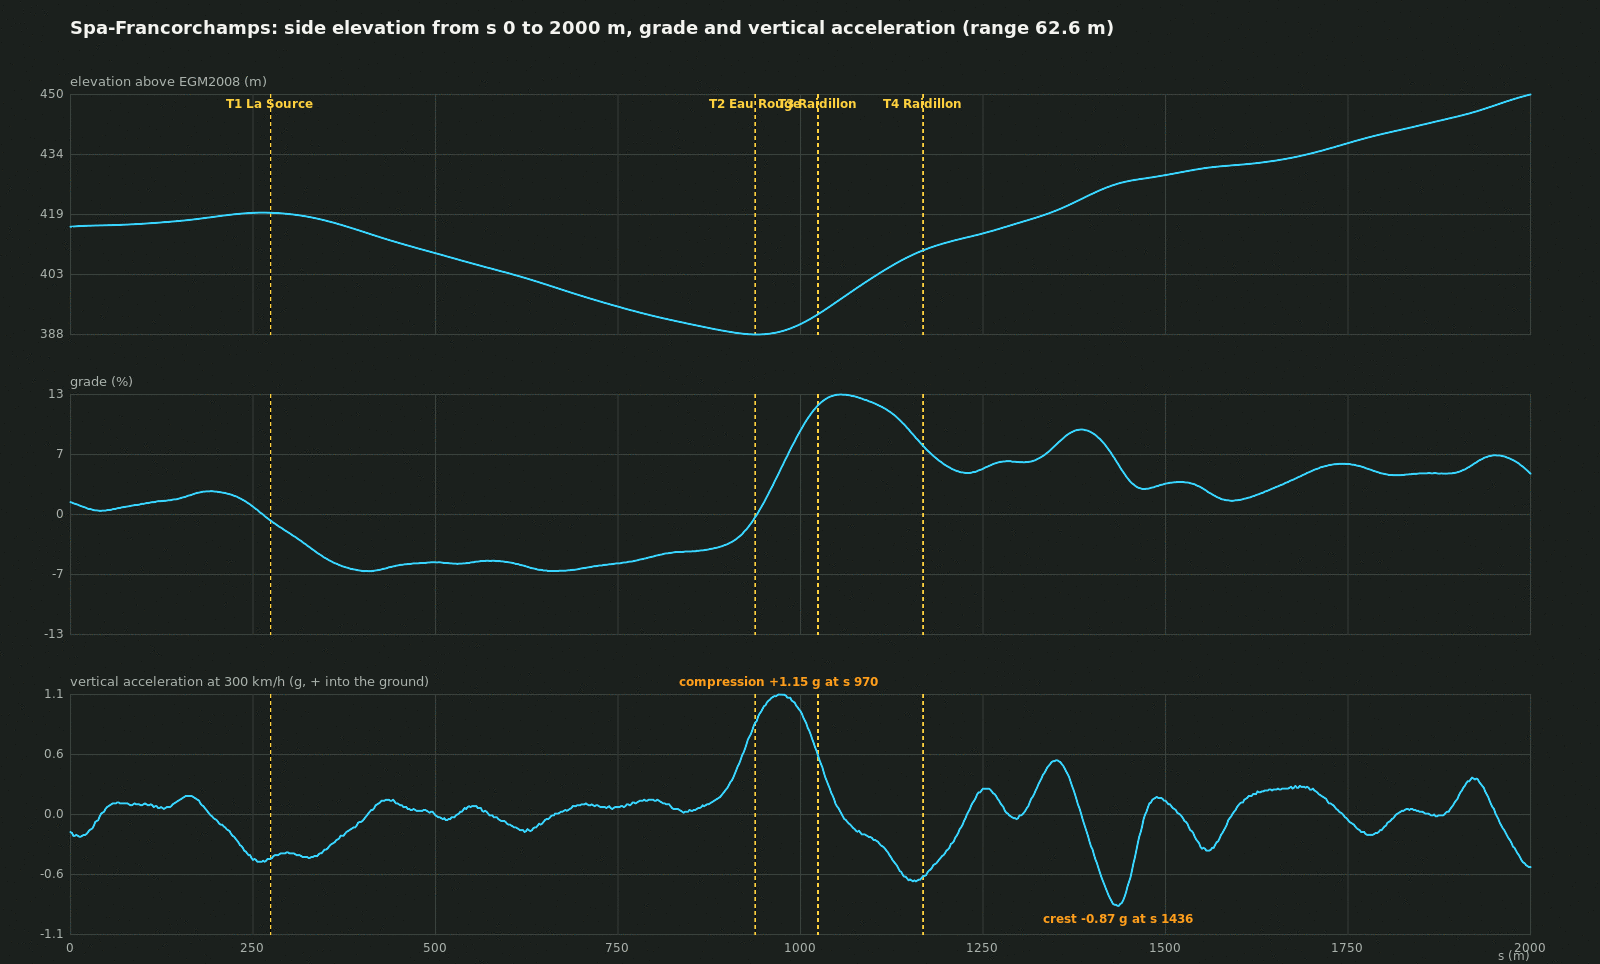
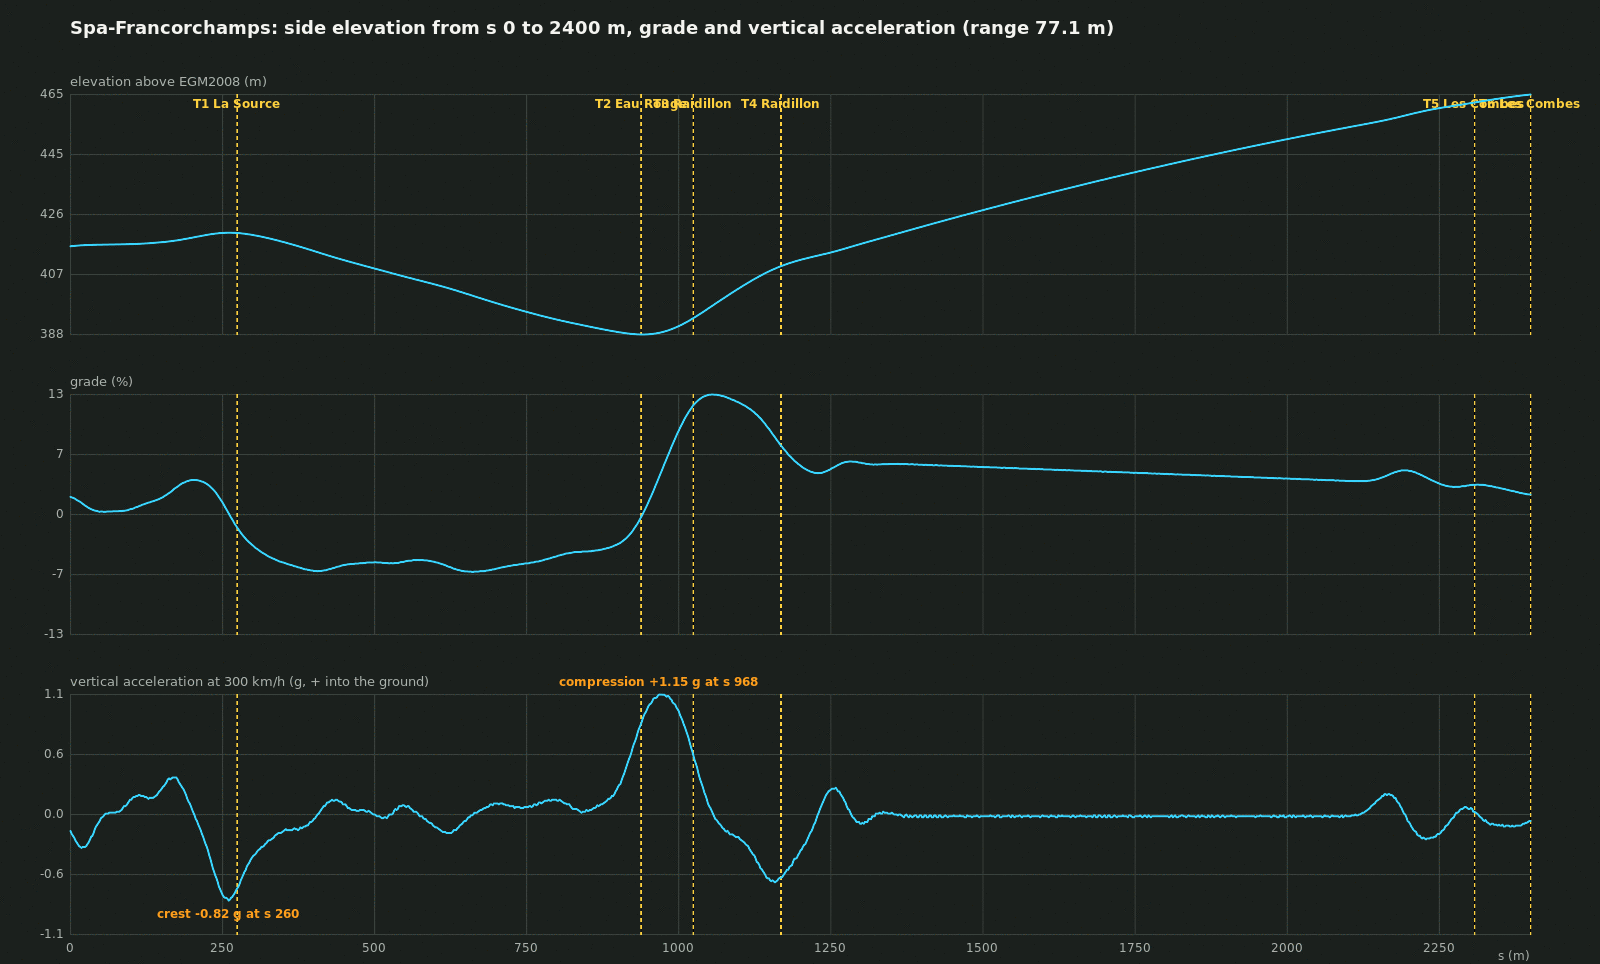
Spa: replace the surface-model bump on Kemmel, and bound crests on straights
The bump at s 1400 to 1450 m (and a smaller wiggle near 2000 m) put a fake crest
on Kemmel that unloaded the car. A documented elevation correction replaces the
profile from s 1325 to 2150 m with a cubic matching height and grade at both
ends; the opening filter goes, so Raidillon is not softened further.

Regressions: along Kemmel no crest or dip above 0.3 g at 300 km/h, and on both
circuits no straight above 0.8 g outside the named real features.

diff --git a/packages/track/validation/spa.test.ts b/packages/track/validation/spa.test.ts
@@ -58,6 +58,16 @@ const { data, track } = describeCircuit({
   timingLine: { s: 6875.4, uncertainty: 15 },
   poleToBraking: 165,
   pit: { side: 'right', osmLength: 720.5 },
+  // The real compression at the bottom of Eau Rouge and the crest over Raidillon. The other
+  // straights carry undulations of up to about 0.8 g from the surface model (the descent to
+  // Pouhon, the run to the Bus Stop), not yet checked against the circuit.
+  verticalAllowed: (c) => [
+    [c.apex(2) - 200, c.apex(4) + 150, 'Eau Rouge and Raidillon'],
+    // A steady 15 m climb over 150 m in the raw surface model (not a narrow spike), taken as
+    // terrain; not yet checked against a published figure.
+    [c.end(17) - 100, c.start(18) - 300, 'the climb from Blanchimont to the Bus Stop'],
+  ],
+  maxStraightG: 0.8,
   // The start straight beside the run down from La Source; the two legs of Bruxelles.
   closeRuns: [
     [60, 520],
@@ -125,7 +135,34 @@ describe('Spa: elevation', () => {
     let crest = 0;
     for (let s = corner(4); s <= corner(4) + 400; s += step) crest = Math.min(crest, vc(s));
     expect(sag).toBeGreaterThan(1 / 1000);
-    expect(crest).toBeLessThan(-1 / 1000);
+    // About -1/1090 per metre over the top of Raidillon (-0.65 g at 300 km/h).
+    expect(crest).toBeLessThan(-1 / 2000);
+  });
+});
+
+describe('Spa: Kemmel', () => {
+  it('climbs smoothly: no crest or dip a car at 300 km/h would feel as more than 0.3 g', () => {
+    // Regression: a surface-model bump at s 1400 to 1450 m gave -0.87 g (review of PR #18).
+    const v = 300 / 3.6;
+    const w = Math.round(10 / step);
+    let worst = 0;
+    let where = 0;
+    for (let s = corner(4) + 150; s <= corner(5) - 150; s += step) {
+      const i = track.lap.sampleIndex(s);
+      const kv =
+        (track.lap.grade[(i + w) % n]! - track.lap.grade[(i + n - w) % n]!) / (2 * w * step);
+      const acc = Math.abs((v * v * kv) / 9.80665);
+      if (acc > worst) {
+        worst = acc;
+        where = s;
+      }
+    }
+    expect(worst, `s ${where.toFixed(0)}`).toBeLessThan(0.3);
+    // The data's correction is recorded where it was applied.
+    const fixes = (data.source.dem as { corrections: { from: number; to: number }[] }).corrections;
+    expect(fixes).toHaveLength(1);
+    expect(fixes[0]!.from).toBeGreaterThan(corner(4));
+    expect(fixes[0]!.to).toBeLessThan(corner(5));
   });
 });
 

diff --git a/packages/track/validation/suite.ts b/packages/track/validation/suite.ts
@@ -44,6 +44,12 @@ export interface CircuitFacts {
   /** Published distance from pole to the turn 1 braking point (physics-validation 4.7). */
   poleToBraking: number;
   pit: { side: 'left' | 'right'; osmLength: number };
+  /**
+   * Straights: outside these stretches (real crests and compressions, named), the vertical
+   * acceleration a car at 300 km/h feels from the vertical curvature stays under `maxStraightG`.
+   */
+  verticalAllowed: (c: Corners) => readonly (readonly [number, number, string])[];
+  maxStraightG: number;
   /** Lap stretches [from, to] where other parts of the lap run close by: sampled densely. */
   closeRuns: readonly (readonly [number, number])[];
 }
@@ -141,6 +147,37 @@ export function describeCircuit(f: CircuitFacts): { data: TrackData; track: Trac
       const range = Math.max(...y) - Math.min(...y);
       expect(Math.abs(range - f.elevationRange[0])).toBeLessThan(f.elevationRange[1]);
       expect(Math.max(...Array.from(lap.grade, Math.abs))).toBeLessThan(f.maxGrade);
+    });
+
+    it('has no fake crest or dip on a straight that a car at 300 km/h would feel', () => {
+      const v = 300 / 3.6;
+      const g = 9.80665;
+      const step = L / n;
+      const w = Math.round(10 / step);
+      const allowed = f.verticalAllowed(c);
+      const corner = (s: number): boolean =>
+        data.corners.some(
+          (k) =>
+            near(s, k.s) < 150 ||
+            track.forwardDistance(k.start, s) < track.forwardDistance(k.start, k.end),
+        );
+      let worst = 0;
+      let where = '';
+      for (let i = 0; i < n; i++) {
+        const s = i * step;
+        if (
+          corner(s) ||
+          allowed.some(([a, b]) => track.forwardDistance(a, s) < track.forwardDistance(a, b))
+        )
+          continue;
+        const kv = (lap.grade[(i + w) % n]! - lap.grade[(i + n - w) % n]!) / (2 * w * step);
+        const acc = Math.abs((v * v * kv) / g);
+        if (acc > worst) {
+          worst = acc;
+          where = `s ${s.toFixed(0)}`;
+        }
+      }
+      expect(worst, where).toBeLessThan(f.maxStraightG);
     });
 
     it('has sane widths and banking', () => {

diff --git a/packages/track/validation/singapore.test.ts b/packages/track/validation/singapore.test.ts
@@ -59,6 +59,12 @@ const { data, track } = describeCircuit({
   timingLine: { s: 4798.4, uncertainty: 10 },
   poleToBraking: 178,
   pit: { side: 'left', osmLength: 822.2 },
+  // The two bridges are real crests.
+  verticalAllowed: () =>
+    (
+      raw as unknown as { source: { dem: { bridges: { from: number; to: number }[] } } }
+    ).source.dem.bridges.map((b) => [b.from - 50, b.to + 50, 'bridge'] as const),
+  maxStraightG: 0.8,
   // Turns 1 to 4; turn 8 beside turn 14; the hairpin's two legs by the waterfront; the final
   // corners under the grandstand beside the pit lane.
   closeRuns: [

diff --git a/tools/track-pipeline/lib/elevation.py b/tools/track-pipeline/lib/elevation.py
@@ -18,7 +18,29 @@ def bridges(h, spans, step):
     return out
 
 
-def profile(pts, frame, dem, cfg, step, bridge_spans=()):
+def corrections(h, spans, step):
+    """Replaces the profile over each (first_s, last_s) span with a cubic that matches the height
+    and the grade (over +/- 10 m) at both ends: for a surface-model artefact on a stretch whose
+    real profile is smooth. Each span is documented in the circuit's elevation table."""
+    n = len(h)
+    out = list(h)
+    w = max(1, int(round(10 / step)))
+    for a, b in spans:
+        i0 = int(round(a / step))
+        m = int(round(((b - a) % (n * step)) / step))
+        i1 = i0 + m
+        L = m * step
+        h0, h1 = h[i0 % n], h[i1 % n]
+        g0 = (h[(i0 + w) % n] - h[(i0 - w) % n]) / (2 * w * step)
+        g1 = (h[(i1 + w) % n] - h[(i1 - w) % n]) / (2 * w * step)
+        for k in range(m + 1):
+            t = k / m
+            out[(i0 + k) % n] = ((2 * t ** 3 - 3 * t ** 2 + 1) * h0 + (t ** 3 - 2 * t ** 2 + t) * L * g0
+                                 + (-2 * t ** 3 + 3 * t ** 2) * h1 + (t ** 3 - t ** 2) * L * g1)
+    return out
+
+
+def profile(pts, frame, dem, cfg, step, bridge_spans=(), correction_spans=()):
     e = cfg["elevation"]
     raw = []
     for x, z in pts:
@@ -30,6 +52,8 @@ def profile(pts, frame, dem, cfg, step, bridge_spans=()):
     h = dem_profile.moving_average(h, int(round(e["average"] / step)) | 1)
     if bridge_spans:
         h = bridges(h, bridge_spans, step)
+    if correction_spans:
+        h = corrections(h, correction_spans, step)
     # A light Gaussian pass on top of the box filter keeps the grade continuous.
     h = geom.smooth_closed(h, e["gradeSigma"] / step)
     lo, hi = min(h), max(h)

diff --git a/tools/track-pipeline/build.py b/tools/track-pipeline/build.py
@@ -389,7 +389,8 @@ def main(argv):
     # 6. Elevation.
     dem, dem_rec = inputs.dem_tile(lat0, lon0, offline)
     spans = bridge_spans(cfg, layout, frame, pts, step / quality["scale"])
-    raw_h, h = elevation.profile(pts, frame, dem, cfg, step / quality["scale"], spans)
+    fixes = [(lap.resolve(c["from"]) / quality["scale"], lap.resolve(c["to"]) / quality["scale"]) for c in cfg["elevation"].get("corrections", [])]
+    raw_h, h = elevation.profile(pts, frame, dem, cfg, step / quality["scale"], spans, fixes)
     datum = math.floor(min(h))
     log("elevation: %.1f to %.1f m, range %.1f m (published %.1f)" % (min(h), max(h), max(h) - min(h), cfg["elevation"]["publishedRange"]))
     # 7-8. Width and banking.
@@ -465,6 +466,10 @@ def main(argv):
                     {"way": b["way"], "from": lap.wrap(sp[0] * quality["scale"]), "to": lap.wrap(sp[1] * quality["scale"]), "crown": b["crown"]}
                     for b, sp in zip(cfg["elevation"]["bridges"], spans)
                 ]} if cfg["elevation"].get("bridges") else {}),
+                **({"corrections": [
+                    {"from": lap.resolve(c["from"]), "to": lap.resolve(c["to"]), "note": c["note"]}
+                    for c in cfg["elevation"]["corrections"]
+                ]} if cfg["elevation"].get("corrections") else {}),
             },
             "cornerRule": rule,
             "licence": "ODbL-1.0",

diff --git a/docs/track-data.md b/docs/track-data.md
@@ -216,16 +216,18 @@ Nothing third-party was committed in this research slice. All raw data is fetche
 
 - **Loop and frame.** OSM relation 284560, closed, no leftover ways, start heading 330°. Origin 50.4370° N, 5.9686° E, heights relative to 364 m above EGM2008. Ellipsoidal OSM length 7004.0 m; smoothing (Gaussian sigma 6 m) changes it by −0.174 %; scale factor 1.001747 to the official 7004 m; 3502 samples.
 - **Corners.** The default curvature rule finds 16 of the 19 official corners: it drops the Eau Rouge left (turn 2, 17° of turn) and merges Pouhon (turns 10 and 11) and Campus with Stavelot (turns 14 and 15). The circuit's rule (enter 1/300 m, leave 1/600 m, merge gap 30 m, minimum 15°) finds exactly the 19 in order; the file records it in `source.cornerRule` and the validation repeats it. Names by place: La Source, Eau Rouge, Raidillon (3, 4), Les Combes (5, 6), Malmedy, Bruxelles, Speaker's Corner, Pouhon (10, 11), Les Fagnes (12, 13), Campus, Stavelot (15, instead of the person's name it is often given), Blanchimont (16, 17), Bus Stop (18, 19).
-- **Elevation.** 90 m opening, 90 m average, 20 m Gaussian. The opening was not in section 2.2's recommendation: the raw surface model has a narrow bump of about 6 m on early Kemmel (s 1400 to 1450 m, probably a structure or canopy over the track) that puts the steepest grade 250 m past the top of Raidillon and a −1.5 g crest at 300 km/h on Kemmel; a 90 m opening keeps every published check and halves that crest. Results against the published figures:
+- **Elevation.** 90 m average and 20 m Gaussian, no opening, as section 2.2 recommends, so Raidillon is not softened further, and one targeted correction (`elevation.corrections`, recorded in `source.dem.corrections`): along Kemmel, s 1325 to 2150 m, the surface model has a narrow bump of about 6 m at s 1400 to 1450 m followed by a flat (probably a structure or canopy over the track) and a smaller wiggle near s 2000 m, which put crests of about −1.5 g and −0.6 g at 300 km/h on the straight (review of PR #18: −0.87 g with an earlier filter, unloading a medium-trim car from about 23.9 kN to 14.2 kN of tyre load). Over that span the profile is a cubic matching height and grade at both ends. Results against the published figures:
 
 | Quantity | Built | Published | Residual |
 |---|---|---|---|
-| Range | 102.3 m (364.3 m at s 5040, 466.6 m at s 2530) | 102.2 m [8] | +0.1 m |
-| Lowest / highest point | turn 15 (Stavelot) / turn 7 (Malmedy) | turn 15 / turn 7 [8] | within 30 m of the apexes |
-| Bottom of Eau Rouge to the top of Les Combes | +79.1 m | +79 m [7] | +0.1 m |
-| Bottom of Eau Rouge to the top of the climb (s ≈ 1490 m) | +41.2 m | about 40 m [15]; +55 m from the operator's labels [7] | +1.2 m / −13.8 m |
+| Range | 102.1 m (364.7 m at s 5060, 466.7 m at s 2532) | 102.2 m [8] | −0.1 m |
+| Lowest / highest point | turn 15 (Stavelot) / turn 7 (Malmedy) | turn 15 / turn 7 [8] | within 10 m of the apexes |
+| Bottom of Eau Rouge to the top of Les Combes | +79.2 m | +79 m [7] | +0.2 m |
+| Bottom of Eau Rouge to the top of the climb (s ≈ 1490 m) | +39.5 m | about 40 m [15]; +55 m from the operator's labels [7] | −0.5 m / −15.5 m |
 | Steepest grade | 13.1 % on Raidillon (s ≈ 1054 m) | 17 % [15] | −3.9 points: the 30 m grid and the 90 m average soften it |
-| Compression and crest at 300 km/h | +1.15 g at the bottom of Eau Rouge (s 976 m); −0.6 g over the top of Raidillon (s 1170 m); −0.88 g on early Kemmel (s 1434 m, residue of the bump above) | — | `spa-vertical.png` |
+| Vertical acceleration at 300 km/h | +1.15 g at the bottom of Eau Rouge (s 968 m); −0.65 g over the top of Raidillon (s 1170 m); within ±0.26 g along Kemmel | — | `spa-vertical.png` |
+
+Straights elsewhere stay within 0.8 g at 300 km/h, apart from the climb from Blanchimont to the Bus Stop (s ≈ 6050 to 6250 m, 15 m over 150 m in the raw surface model, +1.16 g at its foot), taken as terrain but not yet checked against a published figure; the descent to Pouhon (s ≈ 3550 m, −0.7 g) and the run to the Bus Stop (s ≈ 6370 m, −0.6 g) are also unchecked surface-model undulations.
 
 - **Widths, banking, kerbs.** Half-widths from authored keys: 7.5 m on the start straight, up to 9 m and 8.5 m through La Source, 5.0–5.5 m round the lap, 6 m at the Bus Stop (FIA reference width 10 m as the floor; the TUMFTM profile, used only locally, was scaled by about 1.1 as at Monza). Banking: 1–2.5° into the turn at La Source, Eau Rouge, Raidillon, Bruxelles, Pouhon, Stavelot and Blanchimont. Kerbs: Monza's three profiles; sausage kerbs at the Bus Stop.
 - **Run-off and barriers.** OSM gravel along 1218 m (left) and 854 m (right). OSM walls, fences and guard rails are used where mapped within 45 m; fences are read as guard rails (they are the debris fences on them), and type changes shorter than 20 m are merged. Totals: concrete 3118 m / 4954 m, Armco 3030 m / 1538 m, tyres 856 m / 512 m (left / right). Every barrier is kept inside the frame limit the runtime computes (`clampToFrame`), which moved the pit-side barrier at the Bus Stop by up to 0.25 m.

diff --git a/docs/STATUS.md b/docs/STATUS.md
@@ -84,7 +84,7 @@ Keys: arrows or WASD drive, Q/E shift (gears are automatic by default), F asks f
 - Car suspension links are one mesh with morph targets (bump per corner, steer per front corner) rather than one rotating node per link, to keep draw calls near 40 on High.
 - The far car LOD has no suspension links, uprights or decals; it is 10.6k triangles against the 12k budget.
 - Spa and Singapore corner names are places: Stavelot for turn 15 rather than the person's name it is often given, and Singapore corners after the road beside them (docs/track-data.md 5.2, 5.3).
-- Elevation filters differ from the research recommendation after looking at the profiles: Spa gets a 90 m opening (removes a surface-model bump on early Kemmel), Singapore a 400 m opening instead of 300 m (removes a canopy plateau on Raffles Avenue).
+- Elevation filters differ from the research recommendation after looking at the profiles: Spa gets a documented cubic correction along Kemmel (removes a surface-model bump that put a fake crest on the straight), Singapore a 400 m opening instead of 300 m (removes a canopy plateau on Raffles Avenue).
 - Monza's DRS zone 2 now opens 12 m after the timing line (s = 5484.5 m) instead of 12 m after the start line; the racing line was rebuilt and the reference lap is 0.087 s quicker.
 - Spa's pit lane follows the mapped way, which rejoins after La Source, not before its braking zone.
 

diff --git a/tools/track-pipeline/README.md b/tools/track-pipeline/README.md
@@ -46,7 +46,9 @@ Add `circuits/<id>.json`; no code changes for a circuit like the three built. It
 - `cornerRule` (optional): overrides of the curvature rule (`smoothSigma`, `enter`, `exit`,
   `mergeGap`, `minTurn`) where the official numbering needs them; the file records the rule used;
 - `elevation`: the circuit's filter (opening window, average, Gaussian), the published range the
-  result must match, and optional `bridges` (OSM ways put back as crowned decks after the opening);
+  result must match, optional `bridges` (OSM ways put back as crowned decks after the opening) and
+  `corrections` (spans whose surface-model profile is replaced by a cubic matching height and grade
+  at both ends, each with a `note` saying why);
 - `corners`: official numbering, names by place and direction. The build fails unless the
   curvature rule finds exactly these corners in this order;
 - `timing`, `grid`, `pit`: positions as offsets from corners (`{"corner": 4, "offset": -233}`,
